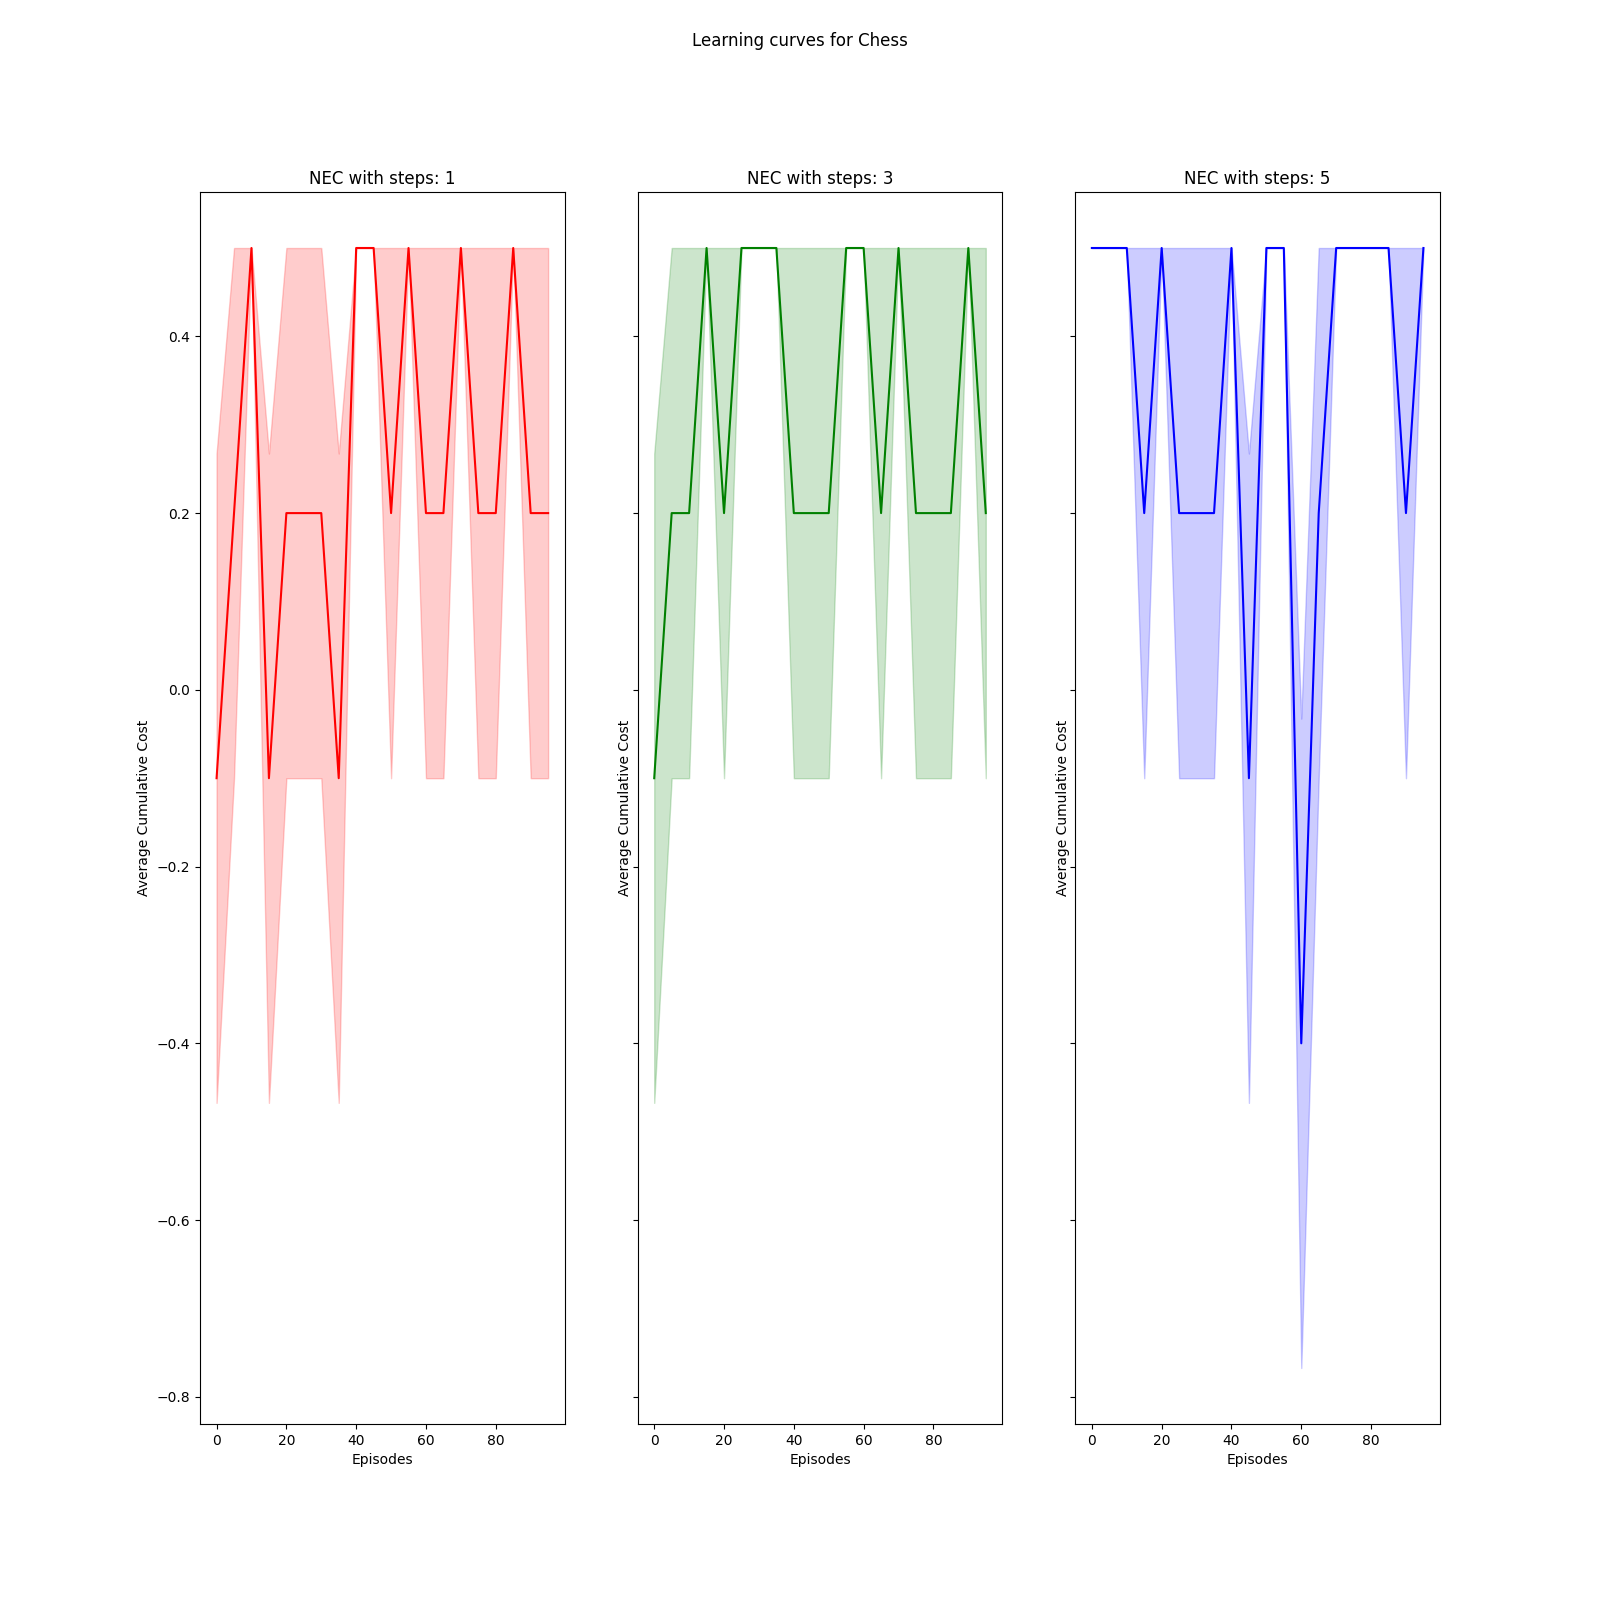
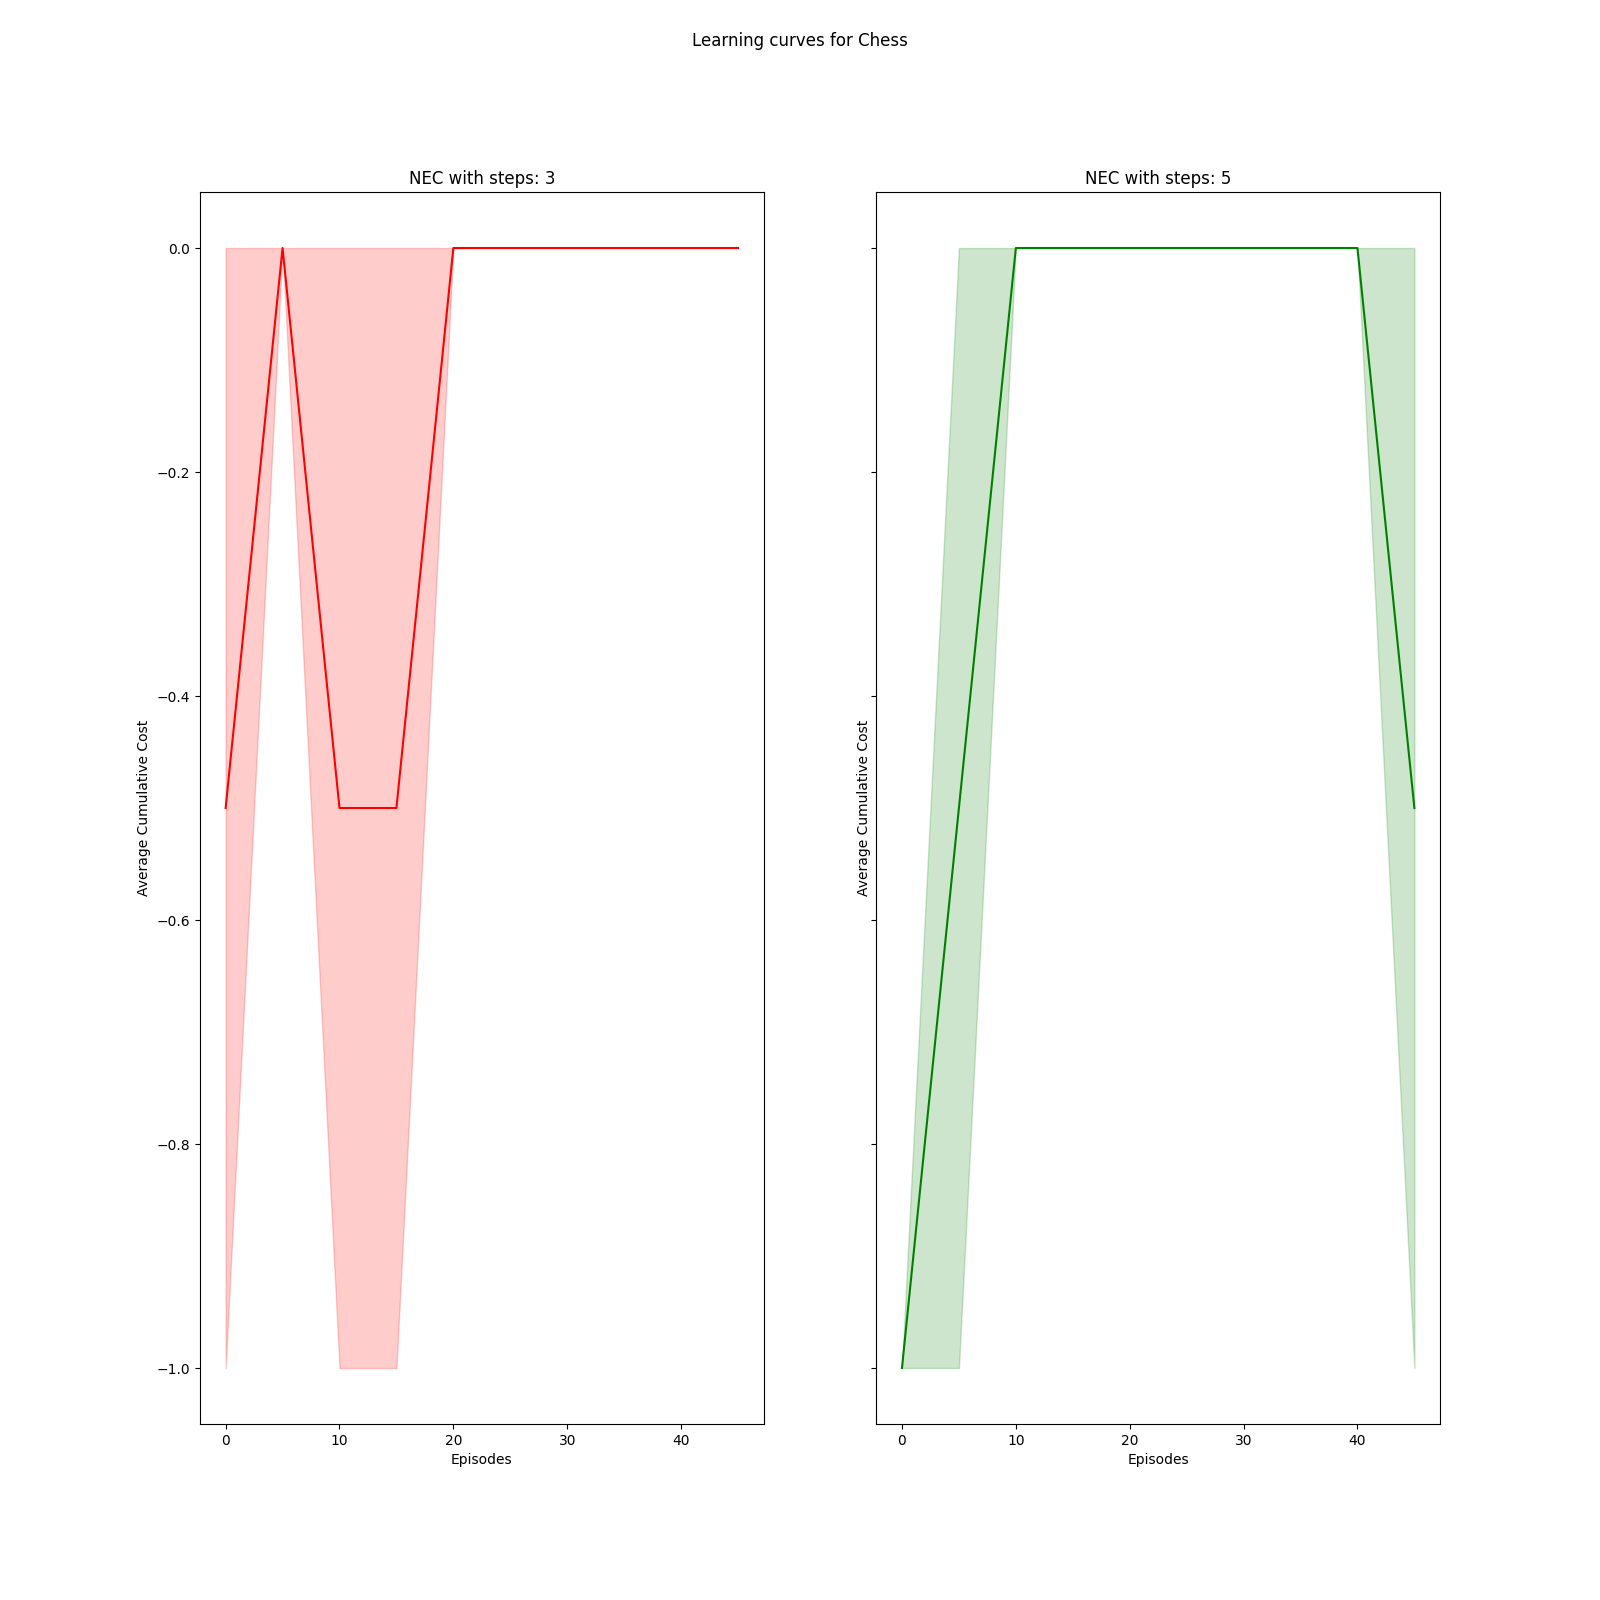
modify dnd_write, q-network

diff --git a/NeuralEpisodicControl/NEC.py b/NeuralEpisodicControl/NEC.py
@@ -10,12 +10,12 @@ from tqdm import tqdm
 
 class NeuralEpisodicControl:
     def __init__(self, env, q_network, replay_buffer, optimizer, n_steps=1, gamma=.99, eps_start=.3, eps_end=.01,
-                 eps_decay=1000, alpha=1e-3, batch_size=64, loss_fnc=smooth_l1_loss):
+                 eps_decay=1000, alpha=0.5, batch_size=64, loss_fnc=smooth_l1_loss):
         self.env = env
         self.q_network = q_network
         self.replay_buffer = replay_buffer
         self.memory = {}
-        self.optimizer = optimizer(self.q_network.parameters(), alpha)
+        self.optimizer = optimizer(self.q_network.parameters(), 1e-3)
         self.loss_fnc = loss_fnc
 
         self.n_steps = n_steps
@@ -56,6 +56,12 @@ class NeuralEpisodicControl:
         else:
             # Random choice
             return random.choice(actions)
+    def opponent_action(self,state):
+        actions = self.env.get_legal_moves()
+        # # Greedy choice
+        # idx = torch.argmax(self.compute_attention(state, actions))
+        # return random.choice([a for i, a in enumerate(actions) if i in idx])
+        return random.choice(actions)
 
     def train(self, episodes):
         rewards = []
@@ -95,7 +101,7 @@ class NeuralEpisodicControl:
 
             # If max similarity < threshold tau then write new value to DND
             if not self.memory.get(first_action):
-                self.memory[first_action] = DifferentiableNeuralDictionary(100, 128, 10)
+                self.memory[first_action] = DifferentiableNeuralDictionary(100, 64, 10)
 
             if self.memory[first_action].is_queryable():
                 if torch.max(self.kernel(self.memory[first_action].lookup(state)[0], state)) < self.tau:
@@ -145,7 +151,7 @@ class NeuralEpisodicControl:
             if not done:
                 # state = self.q_network(next_state)
                 actions = self.env.get_legal_moves()
-                opponent_action = self.select_action(state)
+                opponent_action = self.opponent_action(state)
                 next_state, reward, done = self.env.step(opponent_action, opponent_starts)
                 if reward == 1.:
                     print(reward)
@@ -197,7 +203,7 @@ class NeuralEpisodicControl:
             # generate key
             # If action not in memory create new DND
             if self.memory.get(action) is None:
-                self.memory[action] = DifferentiableNeuralDictionary(100, 128, 10)
+                self.memory[action] = DifferentiableNeuralDictionary(100, 64, 10)
 
             if self.memory[action].is_queryable():
                 q_values[i] = self.attend(state, action)

diff --git a/NeuralEpisodicControl/DifferentiableNeuralDictionary.py b/NeuralEpisodicControl/DifferentiableNeuralDictionary.py
@@ -18,21 +18,25 @@ class DifferentiableNeuralDictionary:
         key = key.clone().detach().numpy()
         idx = self.tree.query(key, k=self.k, return_distance=False)
         self.lru += self.tm
-        return torch.from_numpy(self.embeddings[idx].reshape((10, 128))), torch.from_numpy(self.q_values[idx])
+        return torch.from_numpy(self.embeddings[idx].reshape((10, 64))), torch.from_numpy(self.q_values[idx])
 
     def write(self, key, value):
         key = key.clone().detach().numpy()
         value = value.clone().detach().numpy()
-        if self.current_size < self.max_size:
+        index = (self.embeddings == key).all(axis=1).nonzero()
+        if len(index[0])> 0:
+            self.q_values[index[0][0]] = value
+        elif self.current_size < self.max_size:
             self.embeddings[self.current_size] = key
             self.q_values[self.current_size] = value
             self.current_size += 1
+            self.rebuild_tree()
         else:
             index = np.argmin(self.lru)
             self.embeddings[index] = key
             self.q_values[index] = value
 
-        self.rebuild_tree()
+            self.rebuild_tree()
 
     def update(self, alpha, g_n):
         self.q_values[:self.current_size] = self.q_values[:self.current_size] \

diff --git a/NeuralEpisodicControl/QNetwork.py b/NeuralEpisodicControl/QNetwork.py
@@ -1,20 +1,24 @@
 from torch import nn
 from torch.nn.functional import relu
+from torchsummary import summary
+from Chess import Chess
 
 
 class QNetwork(nn.Module):
     def __init__(self) -> None:
         super().__init__()
 
-        self.conv1 = nn.Conv2d(in_channels=6, out_channels=32, kernel_size=3)
-        self.conv2 = nn.Conv2d(in_channels=32, out_channels=128, kernel_size=3)
-        self.pool = nn.MaxPool2d(2, 2)
+        self.conv1 = nn.Conv2d(in_channels=6, out_channels=32, kernel_size=3, padding='same')
+        self.conv2 = nn.Conv2d(in_channels=32, out_channels=64, kernel_size=3)
+        self.pool_1 = nn.MaxPool2d(2, 2)
+        self.pool_2 = nn.MaxPool2d(2, 2)
         self.flatten = nn.Flatten()
 
     def forward(self, x):
-        x = self.pool(relu(self.conv1(x)))
-        x = self.flatten(relu(self.conv2(x)))
-        return x.reshape(1, 128)
+        x = self.pool_1(relu(self.conv1(x)))
+        x = self.flatten(self.pool_2(relu(self.conv2(x))))
+        return x.reshape(-1, 64)
+        
 
 
 if __name__ == '__main__':

diff --git a/NeuralEpisodicControl/main.py b/NeuralEpisodicControl/main.py
@@ -66,6 +66,6 @@ if __name__ == '__main__':
         env_name='Chess',
         env=Chess(),
         n_steps=[3,5],
-        n_episodes=5000,
+        n_episodes=50,
         n_experiments=2
     )

diff --git a/NeuralEpisodicControl/tempCodeRunnerFile.py b/NeuralEpisodicControl/tempCodeRunnerFile.py
@@ -1,0 +1,1 @@
+ padding='same'
